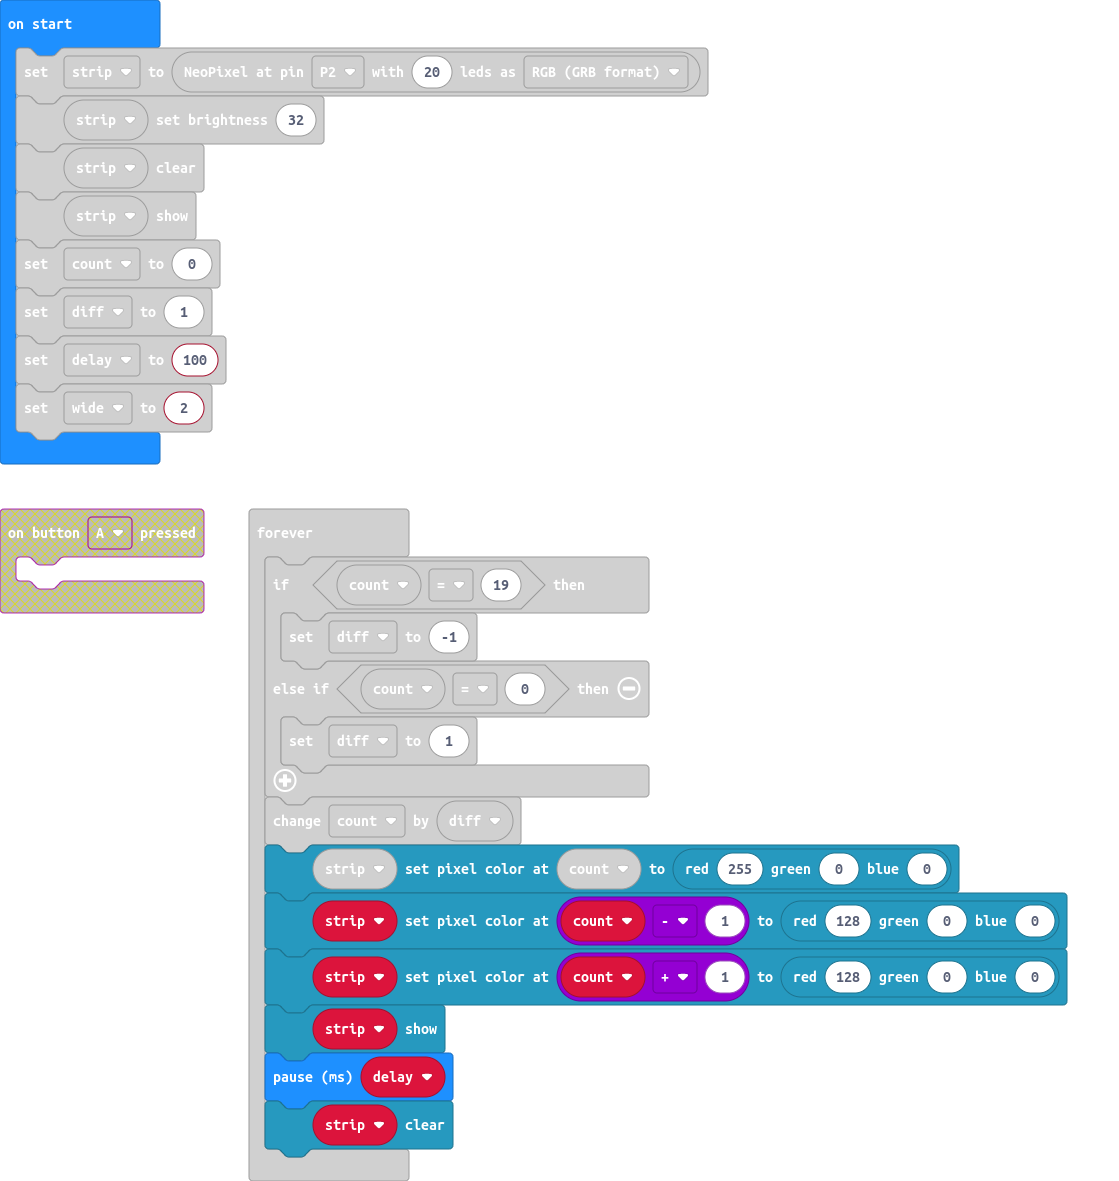
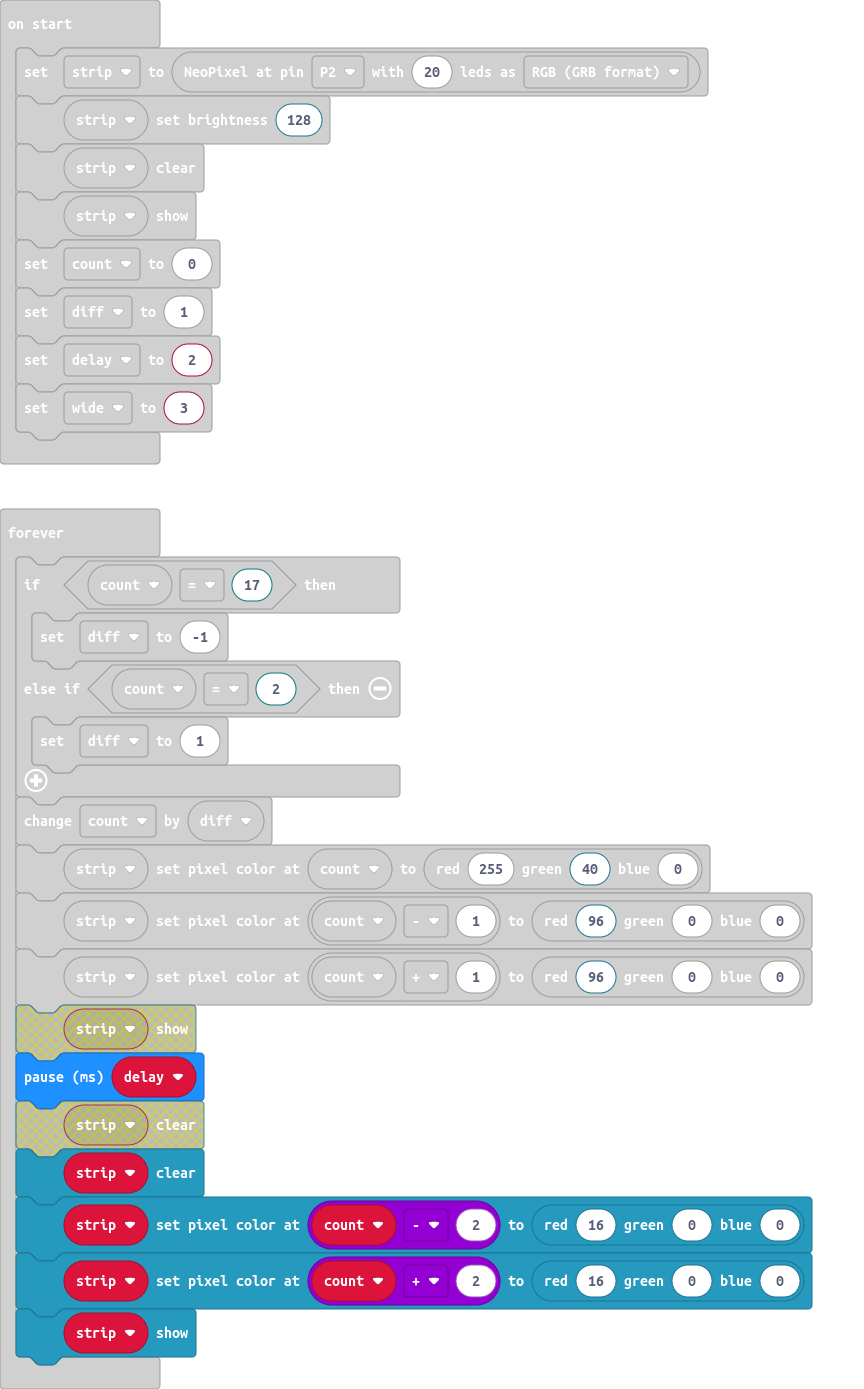
Update main.blocks, main.ts

diff --git a/main.ts b/main.ts
@@ -1,21 +1,23 @@
 let strip = neopixel.create(DigitalPin.P2, 20, NeoPixelMode.RGB)
-strip.setBrightness(32)
+strip.setBrightness(128)
 strip.clear()
 strip.show()
 let count = 0
 let diff = 1
-let delay = 100
-let wide = 2
+let delay = 2
+let wide = 3
 basic.forever(function () {
-    if (count == 19) {
+    if (count == 17) {
         diff = -1
-    } else if (count == 0) {
+    } else if (count == 2) {
         diff = 1
     }
     count += diff
-    strip.setPixelColor(count, neopixel.rgb(255, 0, 0))
-    strip.setPixelColor(count - 1, neopixel.rgb(128, 0, 0))
-    strip.setPixelColor(count + 1, neopixel.rgb(128, 0, 0))
+    strip.setPixelColor(count, neopixel.rgb(255, 40, 0))
+    strip.setPixelColor(count - 1, neopixel.rgb(96, 0, 0))
+    strip.setPixelColor(count + 1, neopixel.rgb(96, 0, 0))
+    strip.setPixelColor(count - 2, neopixel.rgb(16, 0, 0))
+    strip.setPixelColor(count + 2, neopixel.rgb(16, 0, 0))
     strip.show()
     basic.pause(delay)
     strip.clear()
